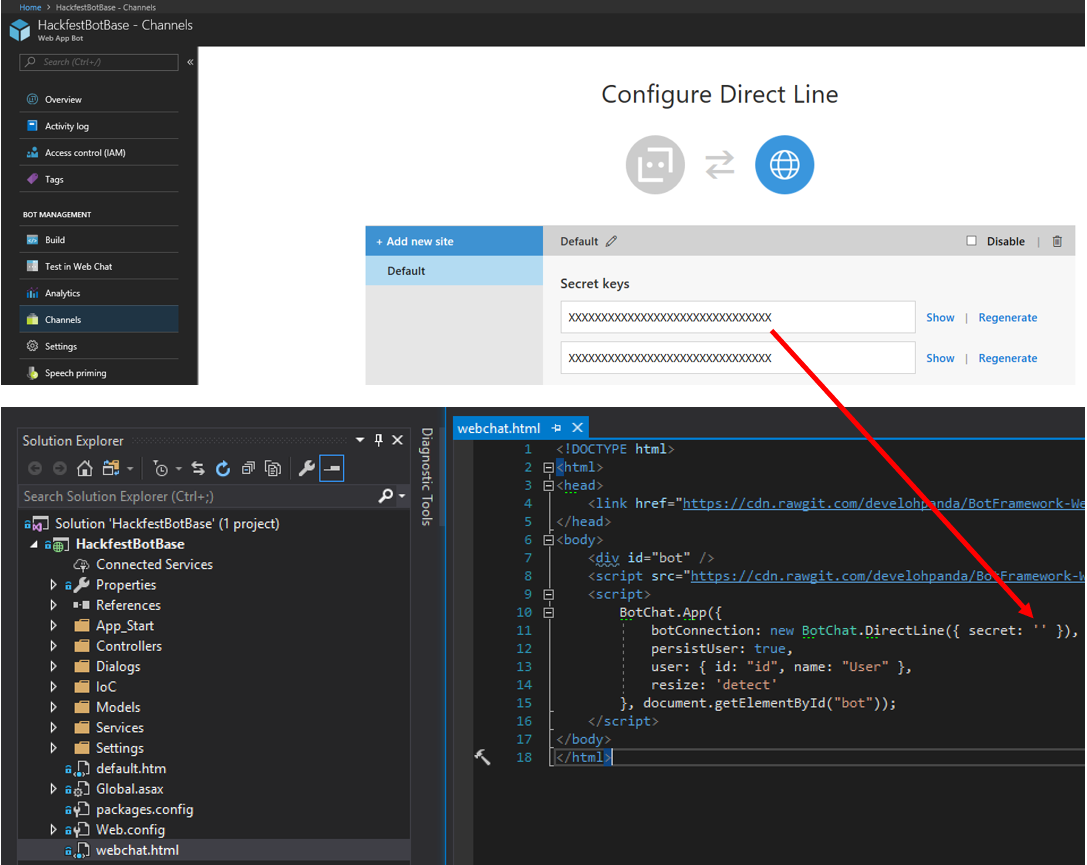
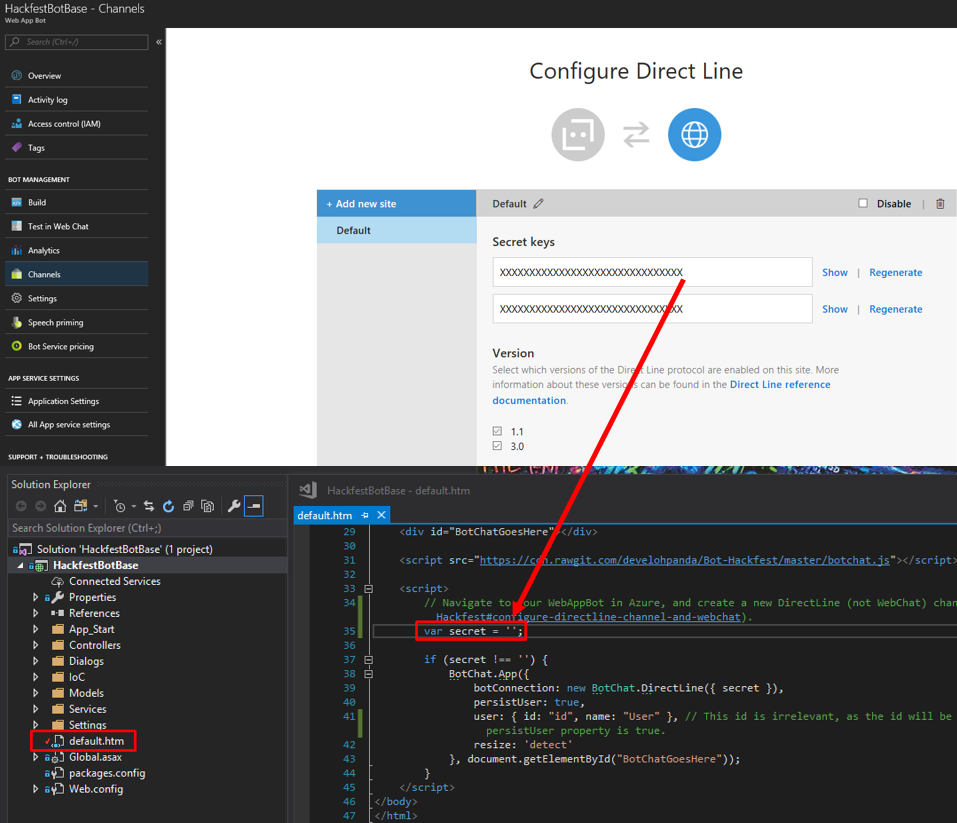
added azure setup instructions

diff --git a/README.md b/README.md
@@ -1,5 +1,13 @@
 # Introduction 
 # Set up Azure Environment
+We will set up a Web App Bot as a base.
+
+![Setup-1](./assets/Setup-1.png)
+
+Enter a bot name, and the remaining fields should automatically populate. Use the Basic C# bot template if using the Hackfest starter project.
+
+![Setup-2](./assets/Setup-2.png)
+
 # Test locally with the Bot Emulator
 https://github.com/Microsoft/BotFramework-Emulator/wiki/Getting-Started
 
@@ -7,9 +15,13 @@ https://github.com/Microsoft/BotFramework-Emulator/wiki/Getting-Started
 Follow the steps below to deploy to Azure.
 
 ![Publish-1](./assets/Publish-1.png)
+
 ![Publish-2](./assets/Publish-2.png)
+
 ![Publish-3](./assets/Publish-3.png)
+
 ![Publish-4](./assets/Publish-4.png)
+
 ![Publish-5](./assets/Publish-5.png)
 
 Make sure to republish after changing settings.
@@ -18,26 +30,9 @@ Make sure to republish after changing settings.
 ## Configure DirectLine channel and WebChat
 
 ![Publish-7](./assets/Publish-7.png)
+
 ![Publish-8](./assets/Publish-8.png)
 
-Republish, and then you can navigate to 
+Republish, and then you can navigate to https://your-bot-name.azurewebsites.net/ to view the chatbox.
 
-TODO: Give a short introduction of your project. Let this section explain the objectives or the motivation behind this project. 
-
-# Getting Started
-TODO: Guide users through getting your code up and running on their own system. In this section you can talk about:
-1.	Installation process
-2.	Software dependencies
-3.	Latest releases
-4.	API references
-
-# Build and Test
-TODO: Describe and show how to build your code and run the tests. 
-
-# Contribute
-TODO: Explain how other users and developers can contribute to make your code better. 
-
-If you want to learn more about creating good readme files then refer the following [guidelines](https://www.visualstudio.com/en-us/docs/git/create-a-readme). You can also seek inspiration from the below readme files:
-- [ASP.NET Core](https://github.com/aspnet/Home)
-- [Visual Studio Code](https://github.com/Microsoft/vscode)
-- [Chakra Core](https://github.com/Microsoft/ChakraCore)
+You can also navigate to http://localhost:3979/default.htm to view the same page, although the bot will still be connected to the deployed version in Azure. To debug a local version of the bot, use the bot emulator.
